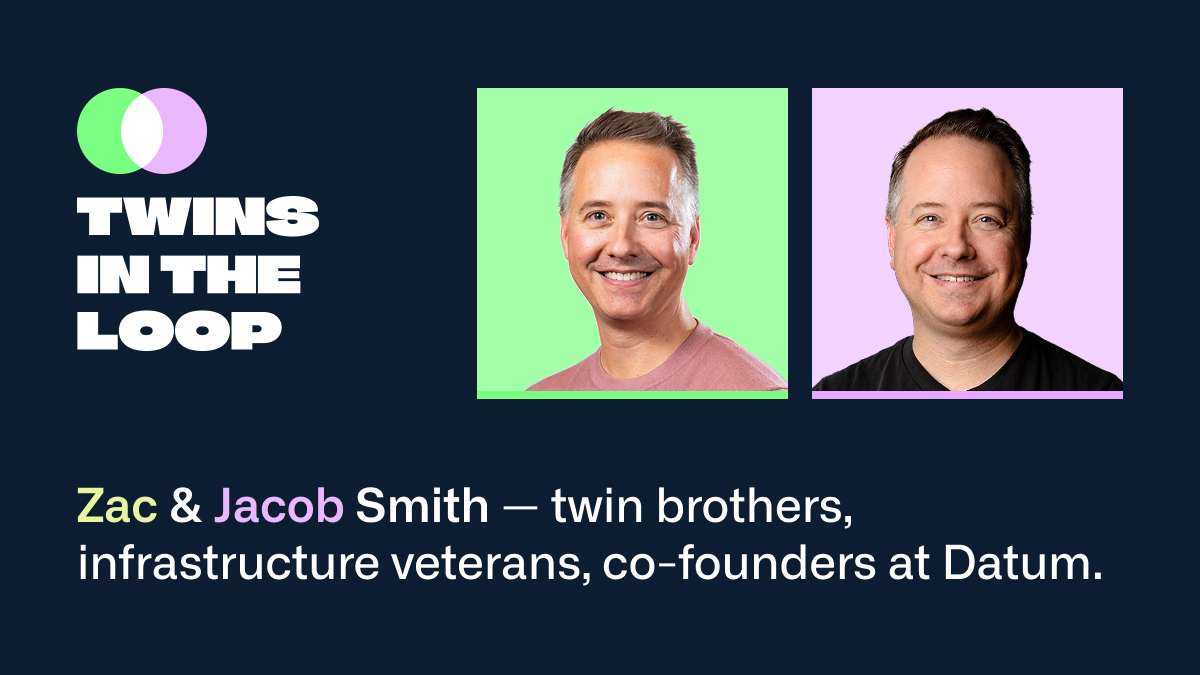
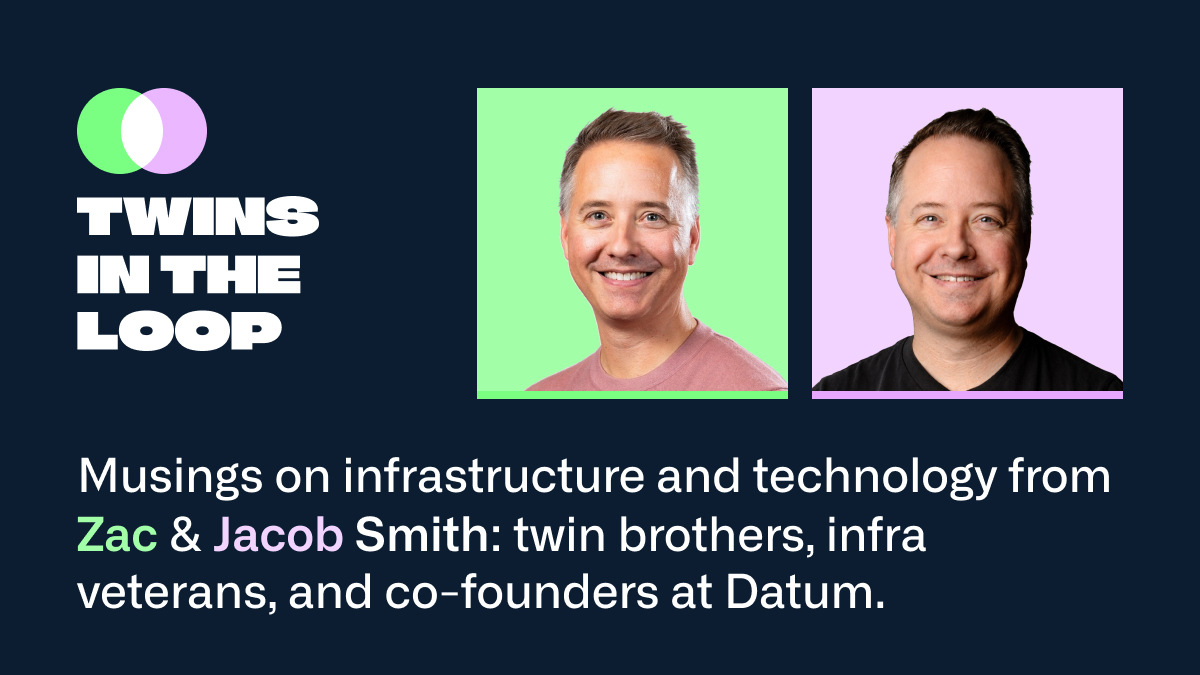
fix: fall back article share images through cover
Use og.image, then the post cover, then og-news.jpg so articles with
covers share the right card.

Changed region(s): [[0.0617, 0.6844, 0.925, 0.9022]]

diff --git a/src/lib/seo.test.ts b/src/lib/seo.test.ts
@@ -94,12 +94,20 @@ describe('resolveSeo', () => {
 });
 
 describe('articleOgImage', () => {
-  it('uses the article default when og.image is omitted', () => {
-    expect(articleOgImage(undefined)).toBe(ARTICLE_OG_IMAGE);
+  it('uses og.image first', () => {
+    expect(
+      articleOgImage('/share/custom.png', { src: '/covers/post.png' }),
+    ).toBe('/share/custom.png');
   });
 
-  it('keeps an explicit og.image', () => {
-    expect(articleOgImage('/share/custom.png')).toBe('/share/custom.png');
+  it('falls back to cover when og.image is omitted', () => {
+    expect(articleOgImage(undefined, { src: '/covers/post.png' })).toBe(
+      '/covers/post.png',
+    );
+  });
+
+  it('falls back to the article default when og.image and cover are omitted', () => {
+    expect(articleOgImage(undefined)).toBe(ARTICLE_OG_IMAGE);
   });
 });
 

diff --git a/src/lib/seo.ts b/src/lib/seo.ts
@@ -3,7 +3,7 @@ import { isSiteIndexable, withBase } from './siteEnv';
 /** Homepage, About, and site-wide share-card fallback. */
 export const DEFAULT_OG_IMAGE = '/images/og-default.jpg';
 
-/** Article pages when `og.image` is omitted. */
+/** Article pages when `og.image` and `cover` are omitted. */
 export const ARTICLE_OG_IMAGE = '/images/og-news.jpg';
 
 export type OgType = 'website' | 'article';
@@ -63,8 +63,9 @@ export function ogImageSrc(
 
 export function articleOgImage(
   image: string | { src: string } | undefined,
+  cover?: string | { src: string } | undefined,
 ): string {
-  return ogImageSrc(image) ?? ARTICLE_OG_IMAGE;
+  return ogImageSrc(image) ?? ogImageSrc(cover) ?? ARTICLE_OG_IMAGE;
 }
 
 export function resolveSeo(

diff --git a/docs/seo-and-sharing.md b/docs/seo-and-sharing.md
@@ -81,12 +81,12 @@ og:
   type: website
 ```
 
-| Field            | Tag                                     | Fallback                                                            |
-| ---------------- | --------------------------------------- | ------------------------------------------------------------------- |
-| `og.title`       | `og:title`, `twitter:title`             | Page `title` plus ` · Twins in the Loop`                            |
-| `og.description` | `og:description`, `twitter:description` | Page `description`                                                  |
-| `og.image`       | `og:image`, `twitter:image`             | Articles: `/images/og-news.jpg`. Other pages: site `defaultOgImage` |
-| `og.type`        | `og:type`                               | `website` (posts default to `article`)                              |
+| Field            | Tag                                     | Fallback                                                                          |
+| ---------------- | --------------------------------------- | --------------------------------------------------------------------------------- |
+| `og.title`       | `og:title`, `twitter:title`             | Page `title` plus ` · Twins in the Loop`                                          |
+| `og.description` | `og:description`, `twitter:description` | Page `description`                                                                |
+| `og.image`       | `og:image`, `twitter:image`             | Articles: `cover`, then `/images/og-news.jpg`. Other pages: site `defaultOgImage` |
+| `og.type`        | `og:type`                               | `website` (posts default to `article`)                                            |
 
 `og.title` is used as-is (no site suffix). Omit any `og` field to use its fallback.
 
@@ -106,7 +106,7 @@ Defaults:
 | Surface            | File                           | Wired from                                      |
 | ------------------ | ------------------------------ | ----------------------------------------------- |
 | Homepage and About | `public/images/og-default.jpg` | `og.image` and `defaultOgImage` in settings/MDX |
-| Article pages      | `public/images/og-news.jpg`    | `ARTICLE_OG_IMAGE` when `og.image` is omitted   |
+| Article pages      | `public/images/og-news.jpg`    | Last fallback after `og.image` and `cover`      |
 
 To change the **homepage / site-wide fallback**, replace `public/images/og-default.jpg` or set:
 
@@ -125,7 +125,7 @@ og:
 
 `embedUrl` is not an SEO field. It does not become `og:video` or a Twitter player card.
 
-Homepage and About have no cover, so they use `og.image` or `defaultOgImage` (`/images/og-default.jpg`). Article `cover` is the on-page image only; it is not the share card unless you copy that path into `og.image`.
+Homepage and About have no cover, so they use `og.image` or `defaultOgImage` (`/images/og-default.jpg`). Article share images use `og.image`, then `cover`, then `/images/og-news.jpg`.
 
 Crawlers cache social cards. After changing an image, use LinkedIn Post Inspector, Facebook Sharing Debugger, or X Card Validator to refresh.
 
@@ -185,7 +185,7 @@ From `src/content/posts/{slug}.mdx`:
 
 - `title` → tab and share-sheet title; `og.title` → `og:title` / `twitter:title` when set
 - `description` → meta and RSS; `og.description` → social description when set
-- `og.image` or `/images/og-news.jpg` → share image; `cover` stays on-page
+- Share image: `og.image`, then `cover`, then `/images/og-news.jpg`
 - `og.type` on posts defaults to `article` even if `og` is omitted
 - JSON-LD `BlogPosting` uses `title`, `published`, author `name`, and cover
 - `embedUrl` is unused for meta tags

diff --git a/docs/content.md b/docs/content.md
@@ -56,7 +56,7 @@ Written posts can omit `embedUrl` and `og`. Video and podcast entries should set
 | `topics`      | Yes                                         | One or more of `ai`, `data-centers`, `infrastructure`, `hardware`. Powers homepage topic chips                                           |
 | `featured`    | No                                          | Default `false`. `true` puts the post in the homepage card grid instead of the list                                                      |
 | `draft`       | No                                          | Default `false`. `true` hides the post from production builds. Drafts still show in `bun run dev`                                        |
-| `cover`       | No                                          | Homepage card image and article image. Share cards use `og.image` or `/images/og-news.jpg`                                               |
+| `cover`       | No                                          | Homepage card image, article image, and share image unless `og.image` is set. Posts without a cover use `/images/og-news.jpg`            |
 | `tldr`        | No                                          | Sidebar TL;DR on the article page. Falls back to `excerpt`                                                                               |
 | `embedUrl`    | No                                          | Optional video/podcast URL (`https://…`). Required in practice for `type: video` or `podcast`; stored only, not rendered as an embed yet |
 | SEO fields    | See [SEO and sharing](./seo-and-sharing.md) | Nested `og` (`title`, `description`, `image`, `type`), plus `canonical`, `noindex`, `keywords`                                           |
